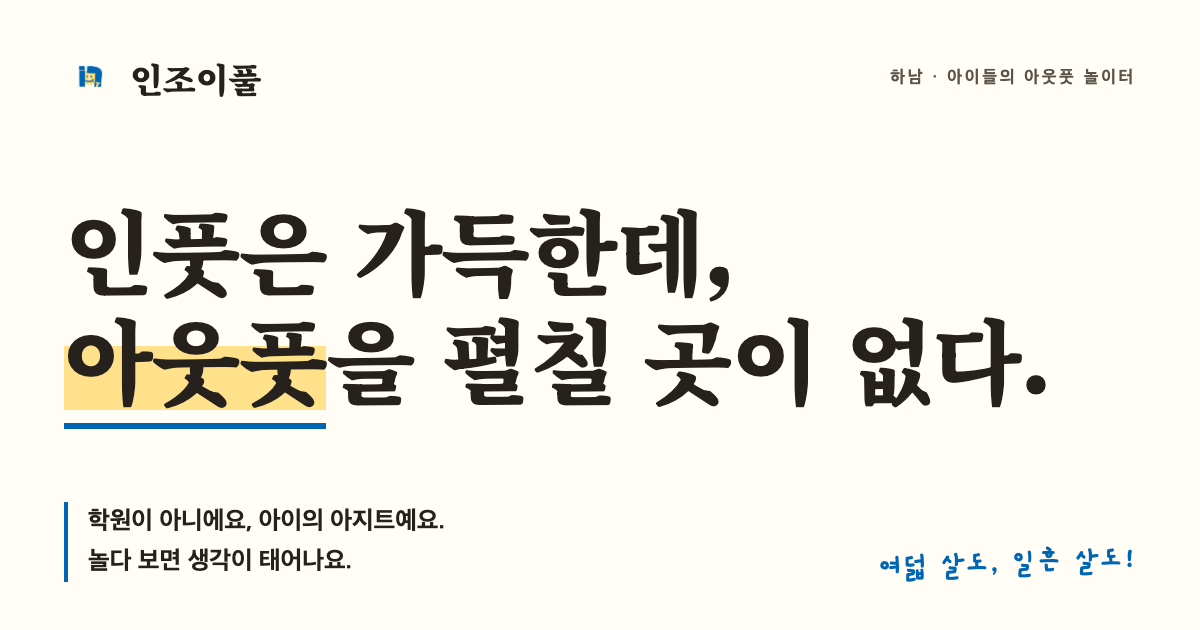
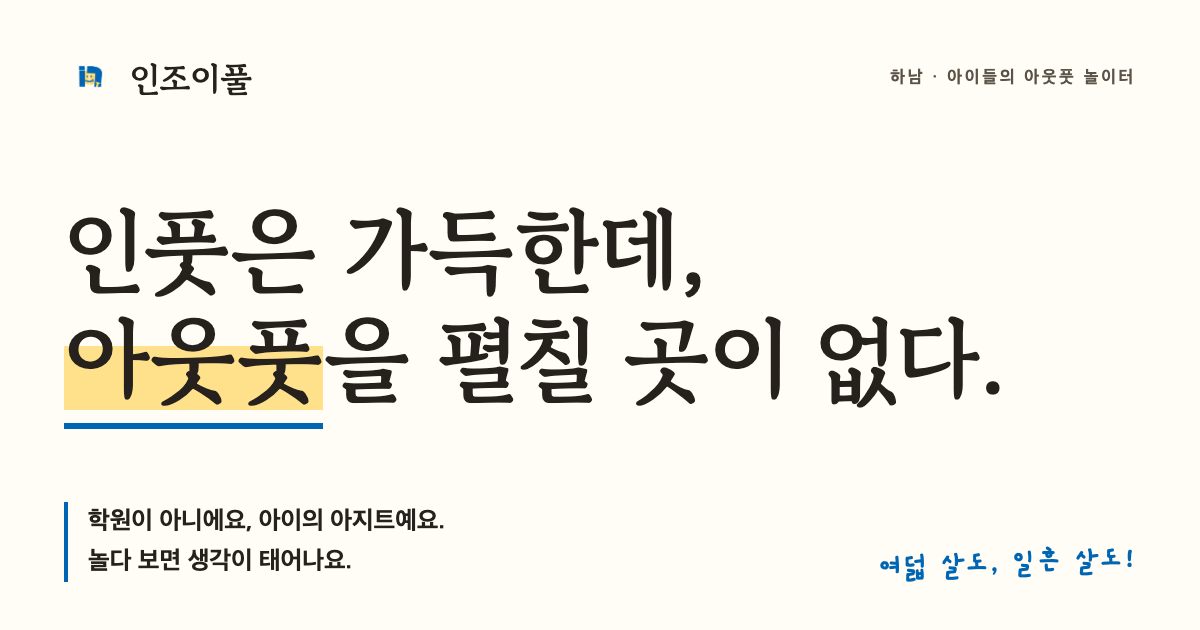
v5.1 — 서체를 고운바탕으로, 어른의 문은 내브 연동 아코디언으로
- Noto Serif KR 900(두꺼움) → Gowun Batang 400/700 전면 교체, OG 카드 동일
- 3열 아치 카드 → 전폭 <details> 아코디언 (펼치면 넓은 방)
- 내브바에 나만시·틈·Popfolio 복귀, 클릭 시 해당 문이 펼쳐짐

Changed region(s): [[0.0617, 0.3317, 0.8942, 0.6635], [0.0925, 0.0905, 0.2158, 0.1508], [0.185, 0.6333, 0.2158, 0.6635]]

diff --git a/style.css b/style.css
@@ -16,7 +16,7 @@
   --ink-soft: #5C5348;
   --hairline: rgba(38, 33, 28, 0.22);
 
-  --serif: "Noto Serif KR", "Apple Myungjo", serif;
+  --serif: "Gowun Batang", "Apple Myungjo", serif;
   --sans:  "Apple SD Gothic Neo", "Pretendard", "Noto Sans KR", "Malgun Gothic", sans-serif;
   --hand:  "Gaegu", "Apple SD Gothic Neo", sans-serif;
 
@@ -51,7 +51,7 @@ a:focus-visible { outline: 3px solid var(--blue); outline-offset: 3px; }
 .hand  { font-family: var(--hand); }
 
 h1, h2, h3 { line-height: 1.3; letter-spacing: -0.01em; margin: 0 0 1.2rem; }
-h2 { font-size: clamp(1.8rem, 4.5vw, 2.7rem); font-weight: 900; }
+h2 { font-size: clamp(1.7rem, 4.2vw, 2.5rem); font-weight: 700; letter-spacing: 0; }
 
 /* 쌍점 글리프 — in:JOYFULL의 콜론. 위 블루, 아래 옐로우 */
 .glyph {
@@ -90,7 +90,7 @@ h2 { font-size: clamp(1.8rem, 4.5vw, 2.7rem); font-weight: 900; }
   min-height: 44px;
   gap: 0.6rem;
   font-family: var(--serif);
-  font-weight: 900;
+  font-weight: 700;
   font-size: 1.35rem;
   color: var(--ink);
   text-decoration: none;
@@ -138,10 +138,10 @@ h2 { font-size: clamp(1.8rem, 4.5vw, 2.7rem); font-weight: 900; }
 .cover__title {
   margin: 0;
   font-family: var(--serif);
-  font-weight: 900;
-  font-size: clamp(2.9rem, 11.5vw, 7.5rem);
-  line-height: 1.12;
-  letter-spacing: -0.015em;
+  font-weight: 700;
+  font-size: clamp(2.6rem, 10.5vw, 6.8rem);
+  line-height: 1.18;
+  letter-spacing: 0;
   display: grid;
 }
 .cover__title .l2 { margin-left: 0.5ch; }
@@ -264,7 +264,7 @@ h2 { font-size: clamp(1.8rem, 4.5vw, 2.7rem); font-weight: 900; }
   font-weight: 700;
   line-height: 1.75;
 }
-.board__poem strong { color: var(--yellow); font-weight: 900; }
+.board__poem strong { color: var(--yellow); font-weight: 700; }
 .board__colon { margin: 0 0 2rem; display: flex; justify-content: center; gap: 0; }
 .board__colon i {
   width: 0.75rem; height: 0.75rem; border-radius: 50%; display: block; margin: 0 0.3rem;
@@ -362,7 +362,7 @@ h2 { font-size: clamp(1.8rem, 4.5vw, 2.7rem); font-weight: 900; }
 }
 .ticket__price {
   margin: 0;
-  font-weight: 900;
+  font-weight: 700;
   font-size: clamp(2.6rem, 7vw, 3.6rem);
   line-height: 1.15;
 }
@@ -402,7 +402,7 @@ h2 { font-size: clamp(1.8rem, 4.5vw, 2.7rem); font-weight: 900; }
   border-bottom: 1px solid var(--hairline);
 }
 .namebook dt {
-  font-weight: 900;
+  font-weight: 700;
   font-size: clamp(2.2rem, 6vw, 3.4rem);
   line-height: 1.1;
   color: var(--blue);
@@ -412,62 +412,108 @@ h2 { font-size: clamp(1.8rem, 4.5vw, 2.7rem); font-weight: 900; }
 .name__hinge {
   margin: 2.5rem 0 0;
   font-size: clamp(1.4rem, 3.4vw, 1.9rem);
-  font-weight: 900;
+  font-weight: 700;
   line-height: 1.5;
 }
 
 /* ---------- 어른의 문 ---------- */
 .sec--doors h2 { margin-bottom: 2.5rem; }
 .doors {
-  list-style: none;
+  border-top: 1.5px solid var(--ink);
   margin: 0 0 2.2rem;
-  padding: 0;
-  display: grid;
-  gap: 1.4rem;
 }
-@media (min-width: 820px) { .doors { grid-template-columns: repeat(3, 1fr); } }
 .door {
-  border: 1.5px solid var(--ink);
-  border-radius: 46% 46% 14px 14px / 24% 24% 14px 14px;   /* 문 아치 */
-  padding: 3rem 1.5rem 1.8rem;
-  text-align: center;
-  display: flex;
-  flex-direction: column;
-  gap: 0.4rem;
-  min-height: 17rem;
+  border-bottom: 1.5px solid var(--ink);
 }
-.door--b { background: rgba(0, 102, 179, 0.10); }
-.door--y { background: rgba(255, 217, 113, 0.28); }
+.door summary {
+  list-style: none;
+  cursor: pointer;
+  display: grid;
+  grid-template-columns: auto 1fr auto;
+  align-items: center;
+  gap: clamp(1rem, 4vw, 2.2rem);
+  padding: 1.6rem 0.4rem;
+  min-height: 44px;
+}
+.door summary::-webkit-details-marker { display: none; }
+.door summary:hover { background: rgba(255, 217, 113, 0.18); }
+.door summary:focus-visible { outline: 3px solid var(--blue); outline-offset: 3px; }
+.door__no {
+  font-weight: 700;
+  font-size: clamp(1.3rem, 3vw, 1.8rem);
+  color: var(--blue);
+}
+.door__head { display: flex; flex-direction: column; gap: 0.1rem; }
+.door__name {
+  font-weight: 700;
+  font-size: clamp(1.5rem, 4vw, 2.1rem);
+  line-height: 1.3;
+}
 .door__type {
-  margin: 0;
-  font-size: 0.8rem;
-  font-weight: 800;
-  letter-spacing: 0.24em;
+  font-size: 0.82rem;
+  font-weight: 700;
+  letter-spacing: 0.16em;
   color: var(--ink-soft);
 }
-.door h3 { font-size: 1.7rem; font-weight: 900; margin: 0.2rem 0 0.4rem; }
-.door__desc { margin: 0 0 1rem; color: var(--ink-soft); font-size: 1.02rem; }
-.door__go {
-  margin-top: auto;
-  align-self: center;
-  font-weight: 800;
+.door__toggle {
+  font-size: 1.3rem;
+  font-weight: 700;
   color: var(--blue);
-  text-decoration: none;
+  transition: transform 0.25s ease;
+}
+.door[open] .door__toggle { transform: rotate(180deg); }
+/* 펼친 방 — 넉넉하게 */
+.door__room {
+  padding: 0.6rem 0.4rem 2.6rem;
+  display: grid;
+  gap: 1.2rem;
+}
+@media (min-width: 860px) {
+  .door__room {
+    grid-template-columns: 1fr 1.2fr;
+    gap: 3rem;
+    align-items: start;
+    padding-left: clamp(3rem, 6vw, 4.6rem);
+  }
+  .door__room > .door__go,
+  .door__room > .door__go--soon { grid-column: 2; }
+}
+.door--y[open] { background: rgba(255, 217, 113, 0.16); }
+.door--b[open] { background: rgba(0, 102, 179, 0.05); }
+.door__line {
+  margin: 0;
+  font-weight: 700;
+  font-size: clamp(1.3rem, 3vw, 1.7rem);
+  line-height: 1.55;
+}
+.door__desc {
+  margin: 0;
+  color: var(--ink-soft);
+  max-width: 32rem;
+}
+.door__go {
+  justify-self: start;
   display: inline-flex;
   align-items: center;
   gap: 0.4rem;
   min-height: 44px;
+  font-weight: 800;
+  color: var(--blue);
+  text-decoration: none;
 }
-a.door__go:hover span { transform: translateX(4px); }
-a.door__go span { transition: transform 0.25s ease; }
-a.door__go:hover { text-decoration: underline; text-underline-offset: 6px; }
+.door__go:hover { text-decoration: underline; text-underline-offset: 6px; }
+.door__go span { transition: transform 0.25s ease; }
+.door__go:hover span { transform: translateX(4px); }
 .door__go--soon {
+  justify-self: start;
+  margin: 0;
   color: var(--ink-soft);
-  font-size: 0.9rem;
-  letter-spacing: 0.1em;
+  font-size: 0.92rem;
+  font-weight: 700;
+  letter-spacing: 0.06em;
   border: 1.5px solid var(--hairline);
   border-radius: 999px;
-  padding: 0 1em;
+  padding: 0.5em 1.1em;
 }
 .doors__tail { margin-top: 0.5rem; }
 
@@ -481,7 +527,7 @@ a.door__go:hover { text-decoration: underline; text-underline-offset: 6px; }
 .colophon__logo { display: block; margin: 0 auto 1rem; }
 .colophon__name {
   margin: 0 0 0.4rem;
-  font-weight: 900;
+  font-weight: 700;
   font-size: 1.6rem;
   color: #FFFFFF;
 }

diff --git a/index.html b/index.html
@@ -28,8 +28,8 @@
 
   <link rel="preconnect" href="https://fonts.googleapis.com">
   <link rel="preconnect" href="https://fonts.gstatic.com" crossorigin>
-  <link href="https://fonts.googleapis.com/css2?family=Noto+Serif+KR:wght@600;700;900&family=Gaegu:wght@400;700&display=swap" rel="stylesheet">
-  <link rel="stylesheet" href="style.css?v=10">
+  <link href="https://fonts.googleapis.com/css2?family=Gowun+Batang:wght@400;700&family=Gaegu:wght@400;700&display=swap" rel="stylesheet">
+  <link rel="stylesheet" href="style.css?v=11">
 </head>
 <body>
   <a class="skip" href="#main">본문으로 건너뛰기</a>
@@ -42,8 +42,9 @@
     </a>
     <nav class="mast__nav" aria-label="주 메뉴">
       <a href="#about">소개</a>
-      <a href="#letters">엄마들의 말</a>
-      <a href="#doors">어른의 문</a>
+      <a href="#door-namansi">나만시</a>
+      <a href="#door-teum">틈</a>
+      <a href="#door-popfolio">Popfolio</a>
       <a class="mast__cta" href="#visit">놀러 오기</a>
     </nav>
   </header>
@@ -201,28 +202,67 @@
     <section class="sec sec--doors" id="doors">
       <p class="sec__mark"><span class="glyph" aria-hidden="true"><i></i><i></i></span> 06 — 어른의 문</p>
       <h2 class="serif">어른에게도 아웃풋이 필요해서,<br>세 개의 문을 더 열어뒀어요.</h2>
-      <ul class="doors">
-        <li class="door door--b">
-          <p class="door__type">웹서비스</p>
-          <h3 class="serif">나만시</h3>
-          <p class="door__desc">하루 10초, 낯선 감각으로 나를 만나는 시간.</p>
-          <p class="door__go door__go--soon">곧 문을 엽니다</p>
-          <!-- TODO: /namansi/ 배포되면 위 줄을 <a class="door__go" href="/namansi/">들어가기 →</a> 로 -->
-        </li>
-        <li class="door door--y">
-          <p class="door__type">뉴스레터</p>
-          <h3 class="serif">틈</h3>
-          <p class="door__desc">숨과 쉼 사이, 그 틈을 누리는 편지. 2주에 한 번.</p>
-          <a class="door__go" href="/teum/">들어가기 <span aria-hidden="true">→</span></a>
-        </li>
-        <li class="door door--b">
-          <p class="door__type">온라인 전시</p>
-          <h3 class="serif">Popfolio</h3>
-          <p class="door__desc">아이의 그림도 어른의 작업도, 나만의 팝업 전시로.</p>
-          <p class="door__go door__go--soon">곧 문을 엽니다</p>
-          <!-- TODO: /popfolio/ 배포되면 위 줄을 <a class="door__go" href="/popfolio/">들어가기 →</a> 로 -->
-        </li>
-      </ul>
+      <div class="doors">
+        <details class="door door--b" id="door-namansi">
+          <summary>
+            <span class="door__no serif">01</span>
+            <span class="door__head">
+              <span class="door__name serif">나만시</span>
+              <span class="door__type">웹서비스 — 어른의 10초</span>
+            </span>
+            <span class="door__toggle" aria-hidden="true">↓</span>
+          </summary>
+          <div class="door__room">
+            <p class="door__line serif">하루 10초,<br>낯선 감각으로 나를 만나는 시간.</p>
+            <p class="door__desc">
+              출근길에, 설거지 끝에, 아이를 재우고 난 밤에.
+              짧게 멈춰서 오늘의 감각 하나를 만나요.
+              길게 쓸 필요 없어요 — 10초면 충분해요.
+            </p>
+            <p class="door__go--soon">곧 문을 엽니다 · 열리면 인스타로 알려드려요</p>
+            <!-- TODO: /namansi/ 배포되면 위 줄을 <a class="door__go" href="/namansi/">들어가기 →</a> 로 -->
+          </div>
+        </details>
+        <details class="door door--y" id="door-teum">
+          <summary>
+            <span class="door__no serif">02</span>
+            <span class="door__head">
+              <span class="door__name serif">틈</span>
+              <span class="door__type">뉴스레터 — 어른의 쉼</span>
+            </span>
+            <span class="door__toggle" aria-hidden="true">↓</span>
+          </summary>
+          <div class="door__room">
+            <p class="door__line serif">숨과 쉼 사이,<br>그 틈을 누리는 편지.</p>
+            <p class="door__desc">
+              2주에 한 번, 메일함으로 가는 짧은 편지예요.
+              바쁜 일상에 틈을 하나 내어드려요 —
+              읽는 데 3분, 남는 건 하루치의 숨.
+            </p>
+            <a class="door__go" href="/teum/">틈 열어보기 <span aria-hidden="true">→</span></a>
+          </div>
+        </details>
+        <details class="door door--b" id="door-popfolio">
+          <summary>
+            <span class="door__no serif">03</span>
+            <span class="door__head">
+              <span class="door__name serif">Popfolio</span>
+              <span class="door__type">온라인 전시 — 여덟 살부터 일흔까지</span>
+            </span>
+            <span class="door__toggle" aria-hidden="true">↓</span>
+          </summary>
+          <div class="door__room">
+            <p class="door__line serif">내 작품이<br>나만의 팝업 전시가 되는 곳.</p>
+            <p class="door__desc">
+              아이의 그림도, 어른의 작업도, 할머니의 자수도.
+              만든 것에는 걸릴 자리가 필요하니까요.
+              여기 대표의 작품도 걸릴 예정이에요.
+            </p>
+            <p class="door__go--soon">곧 문을 엽니다 · 열리면 인스타로 알려드려요</p>
+            <!-- TODO: /popfolio/ 배포되면 위 줄을 <a class="door__go" href="/popfolio/">들어가기 →</a> 로 -->
+          </div>
+        </details>
+      </div>
       <p class="doors__tail prose prose--soft">
         아이를 기다리는 동안, 잠깐 쉬었다 가셔도 좋아요.<br>
         여기는 어른에게도 아지트니까요.
@@ -247,7 +287,21 @@
   </footer>
 
   <script>
-    // 후기 메모지 스크롤 등장 — 사이트 유일 JS. JS가 없으면 전부 그냥 보인다.
+    // 내브에서 문(門) 링크를 누르면 해당 details가 펼쳐진다. JS 없으면 앵커 이동만 된다.
+    function openDoor() {
+      const el = document.querySelector(location.hash || 'x:not(*)');
+      if (el && el.tagName === 'DETAILS') el.open = true;
+    }
+    addEventListener('hashchange', openDoor);
+    openDoor();
+    // 같은 메뉴를 다시 눌러도(해시 변화 없음) 문이 열리게
+    document.querySelectorAll('a[href^="#door-"]').forEach(a =>
+      a.addEventListener('click', () => {
+        const el = document.querySelector(a.getAttribute('href'));
+        if (el && el.tagName === 'DETAILS') el.open = true;
+      }));
+
+    // 후기 메모지 스크롤 등장 — JS가 없으면 전부 그냥 보인다.
     if (!matchMedia('(prefers-reduced-motion: reduce)').matches && 'IntersectionObserver' in window) {
       document.documentElement.classList.add('js');
       const io = new IntersectionObserver(es => es.forEach(e => {